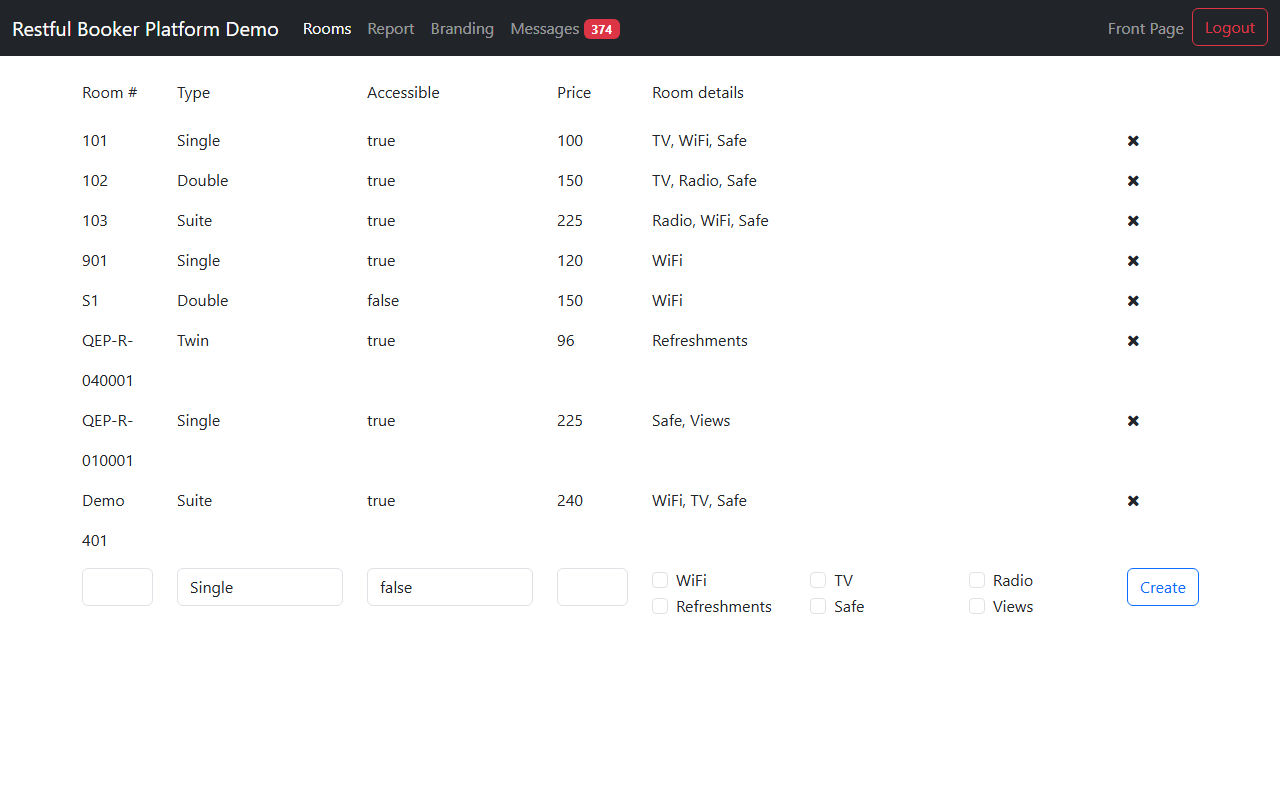
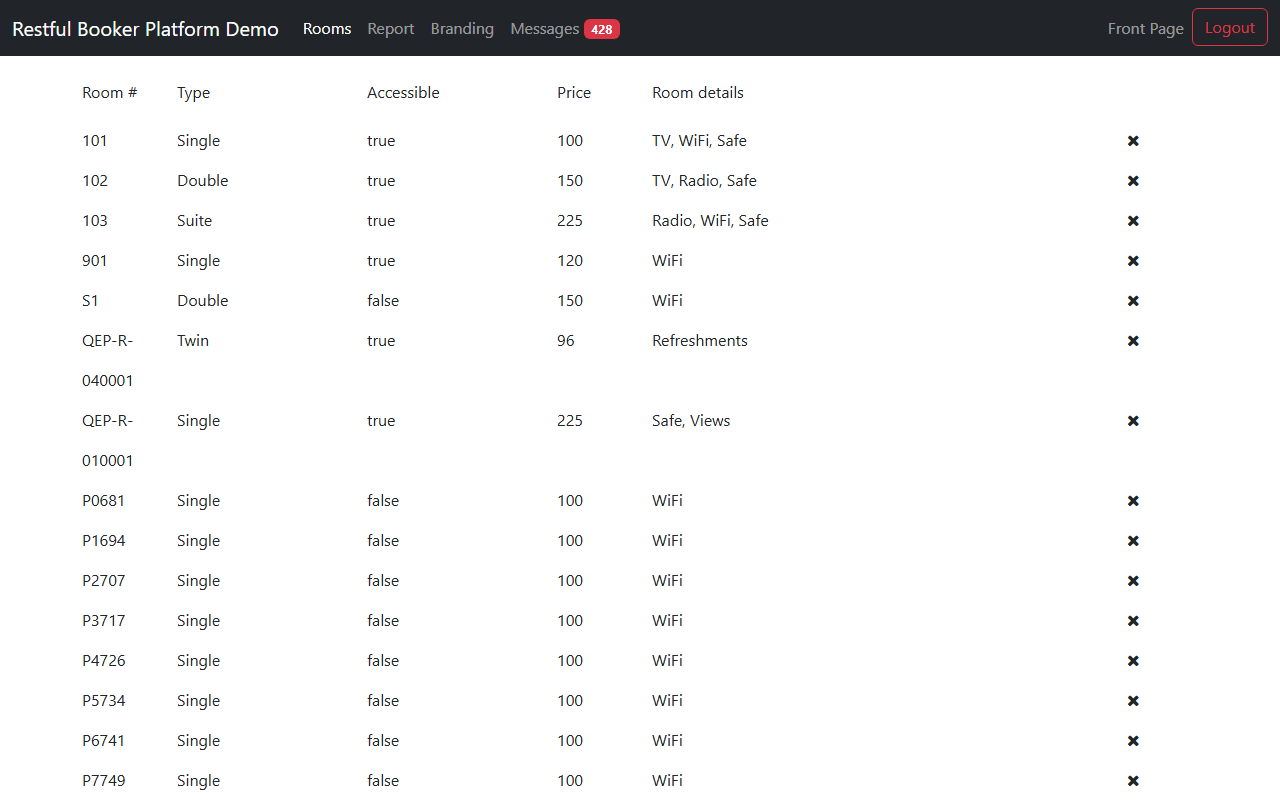
docs: add verified screenshots and k6 evidence
Capturas do pipeline verde no GitHub Actions e do relatorio Allure publicado
com os 30 casos, mais a saida verbatim do k6 no cenario PERF-001.

A evidencia do k6 e o texto que o proprio k6 imprimiu, sem edicao, em vez de
uma captura de terminal: e a forma nativa do dado e permite conferir os numeros
diretamente, em vez de le-los numa imagem.

diff --git a/README.md b/README.md
@@ -317,6 +317,28 @@ vídeo e log de rede ficam retidos apenas em caso de falha; as asserções de AP
 incluem o corpo da resposta na mensagem; cada cenário declara identificador,
 camada, risco e requisito no relatório.
 
+Todas as evidências abaixo foram produzidas a partir do ambiente em execução,
+por [evidencias] Quarto de demonstracao criado: 523
+[evidencias] Gravando a jornada de reserva.
+[evidencias] Convertendo o video em GIF otimizado.
+[evidencias] GIF gerado: docs/assets/gifs/jornada-de-reserva.gif (920 kB)
+[evidencias] Capturando home.
+[evidencias] Capturando administracao-de-quartos.
+[evidencias] Capturando detalhe-do-quarto.
+[evidencias] Quarto de demonstracao removido.
+[evidencias] Evidencias geradas.. Nenhuma é montada, editada ou simulada.
+
+| Evidência                            | Arquivo                                                                              |
+| ------------------------------------ | ------------------------------------------------------------------------------------ |
+| Pipeline verde no GitHub Actions     | [pipeline-verde.png](docs/assets/screenshots/pipeline-verde.png)                     |
+| Relatório Allure publicado, 30 casos | [allure-publicado.png](docs/assets/screenshots/allure-publicado.png)                 |
+| Resumo do Allure gerado localmente   | [allure-resumo.png](docs/assets/screenshots/allure-resumo.png)                       |
+| Administração de quartos             | [administracao-de-quartos.png](docs/assets/screenshots/administracao-de-quartos.png) |
+| Detalhe de um quarto                 | [detalhe-do-quarto.png](docs/assets/screenshots/detalhe-do-quarto.png)               |
+| Página inicial                       | [home.png](docs/assets/screenshots/home.png)                                         |
+| Saída verbatim do k6 (PERF-001)      | [perf-001-smoke.txt](performance/results/perf-001-smoke.txt)                         |
+| Baseline de performance completa     | [baseline.summary.json](performance/results/baseline.summary.json)                   |
+
 ## Performance
 
 Limites derivados de medição, na ordem correta: primeiro medir, depois definir.
